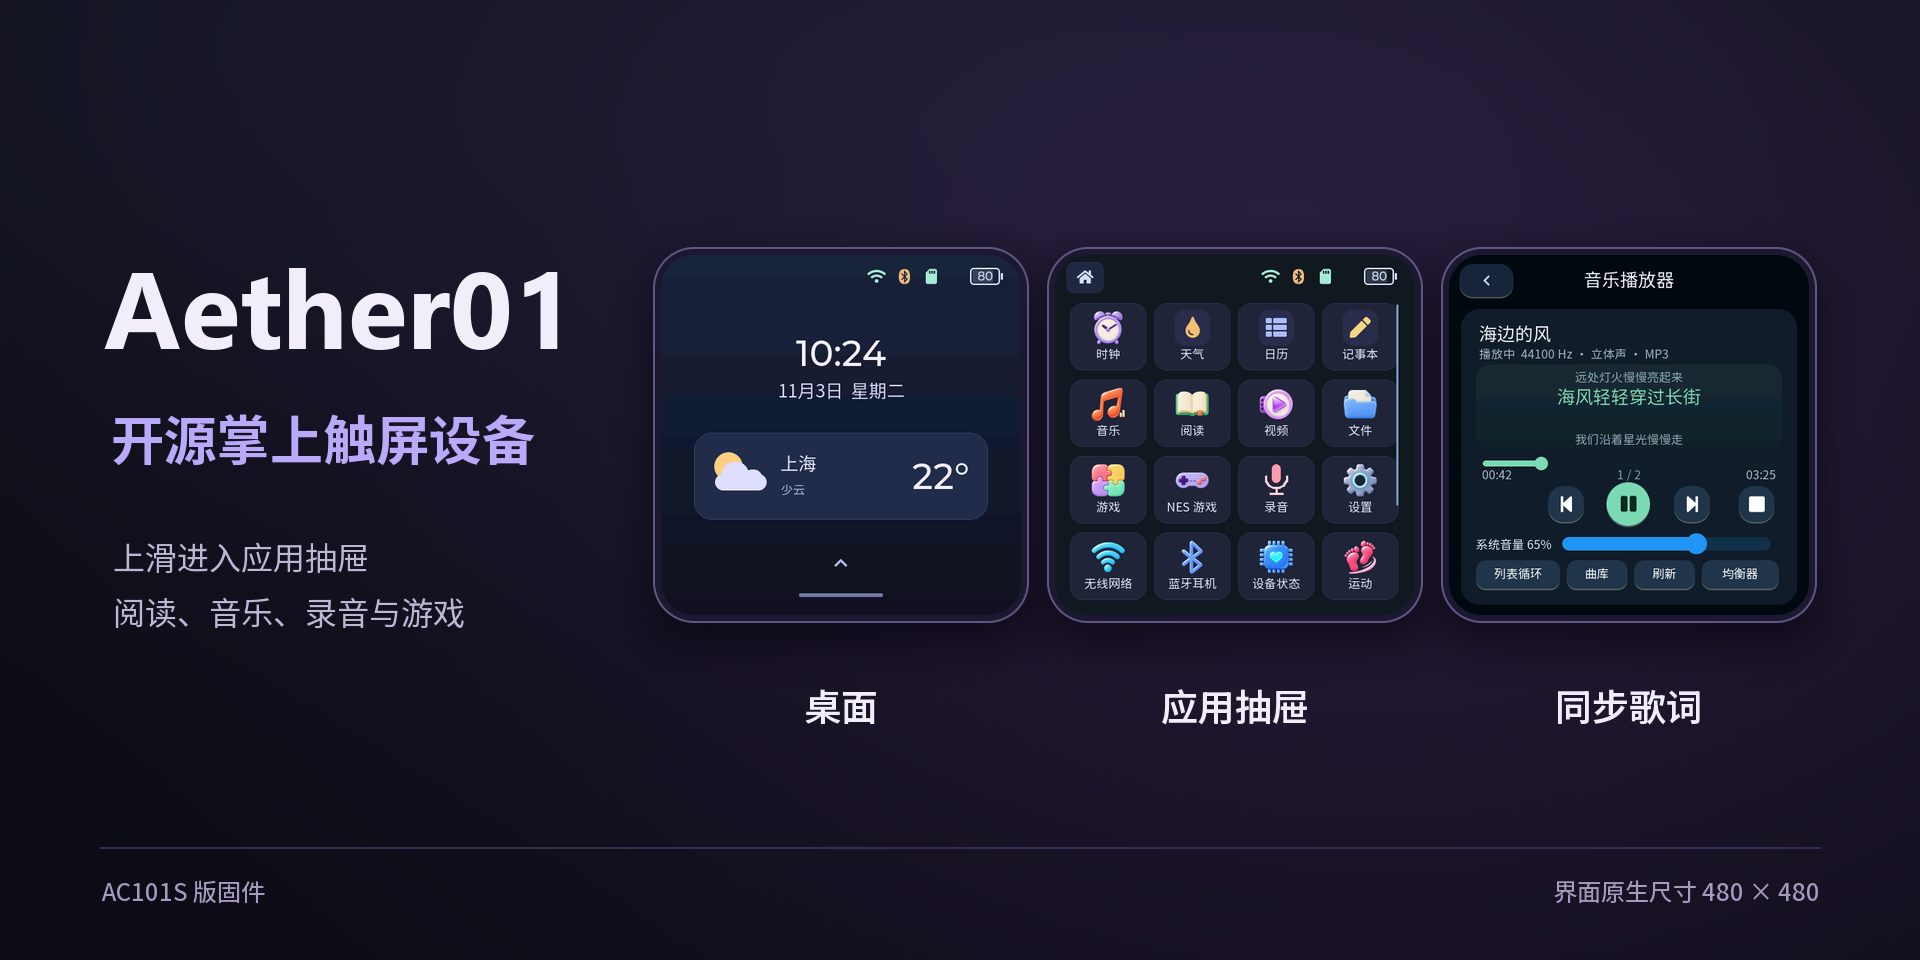
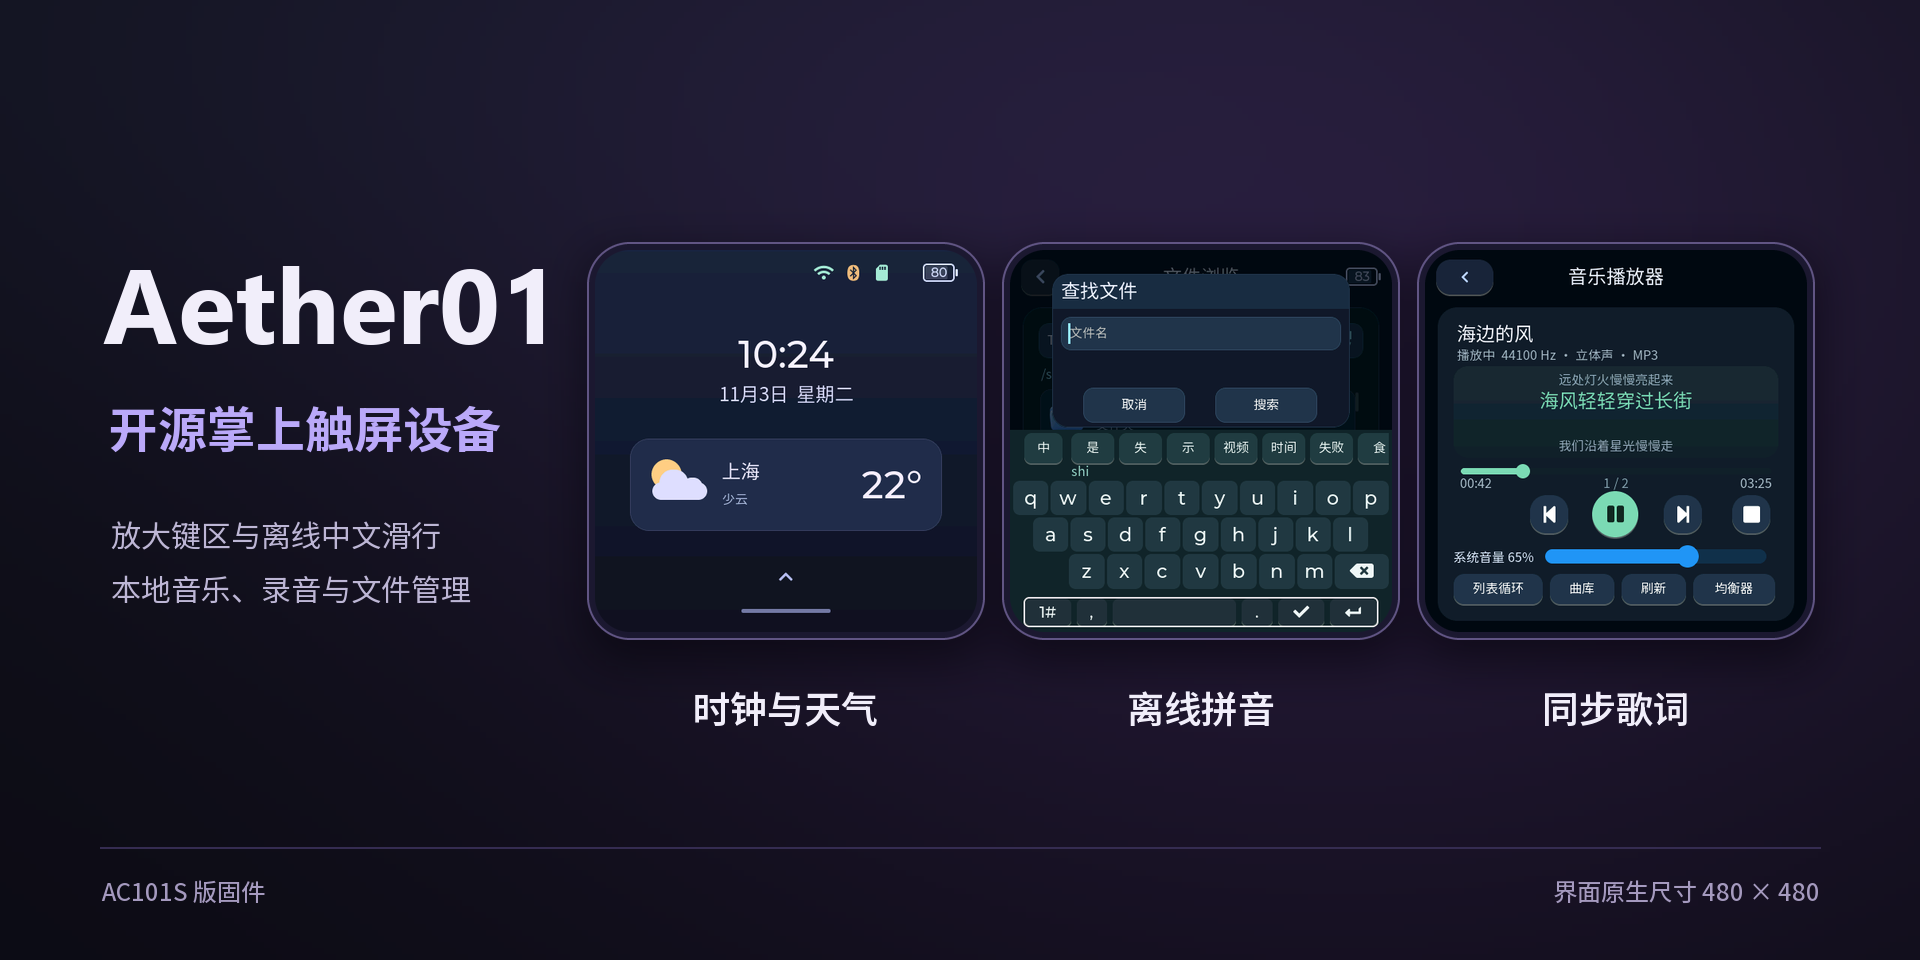
Refresh Aether01 profile preview

diff --git a/README.md b/README.md
@@ -7,7 +7,7 @@
 一台基于 ESP32-S31 的掌上设备，配备 480 × 480 AMOLED 触屏和 AC101S 音频芯片。固件集成阅读、音乐、天气和内置游戏。
 
 <p align="center">
-  <a href="https://github.com/DT-DT001/Aether01-AC101S-#readme"><img src="assets/aether01-interface.png" alt="以太01实际界面预览，展示桌面、上滑应用抽屉与同步歌词" width="100%"></a>
+  <a href="https://github.com/DT-DT001/Aether01-AC101S-#readme"><img src="assets/aether01-interface.png" alt="以太01实际界面预览，展示时钟与天气、离线拼音和同步歌词" width="100%"></a>
 </p>
 
 **[硬件设计](https://github.com/DT-DT001/Aether01-Hardware-AC101S)** · **[固件源码](https://github.com/DT-DT001/Aether01-AC101S-)** · **[下载最新固件](https://github.com/DT-DT001/Aether01-AC101S-/releases/latest)**
